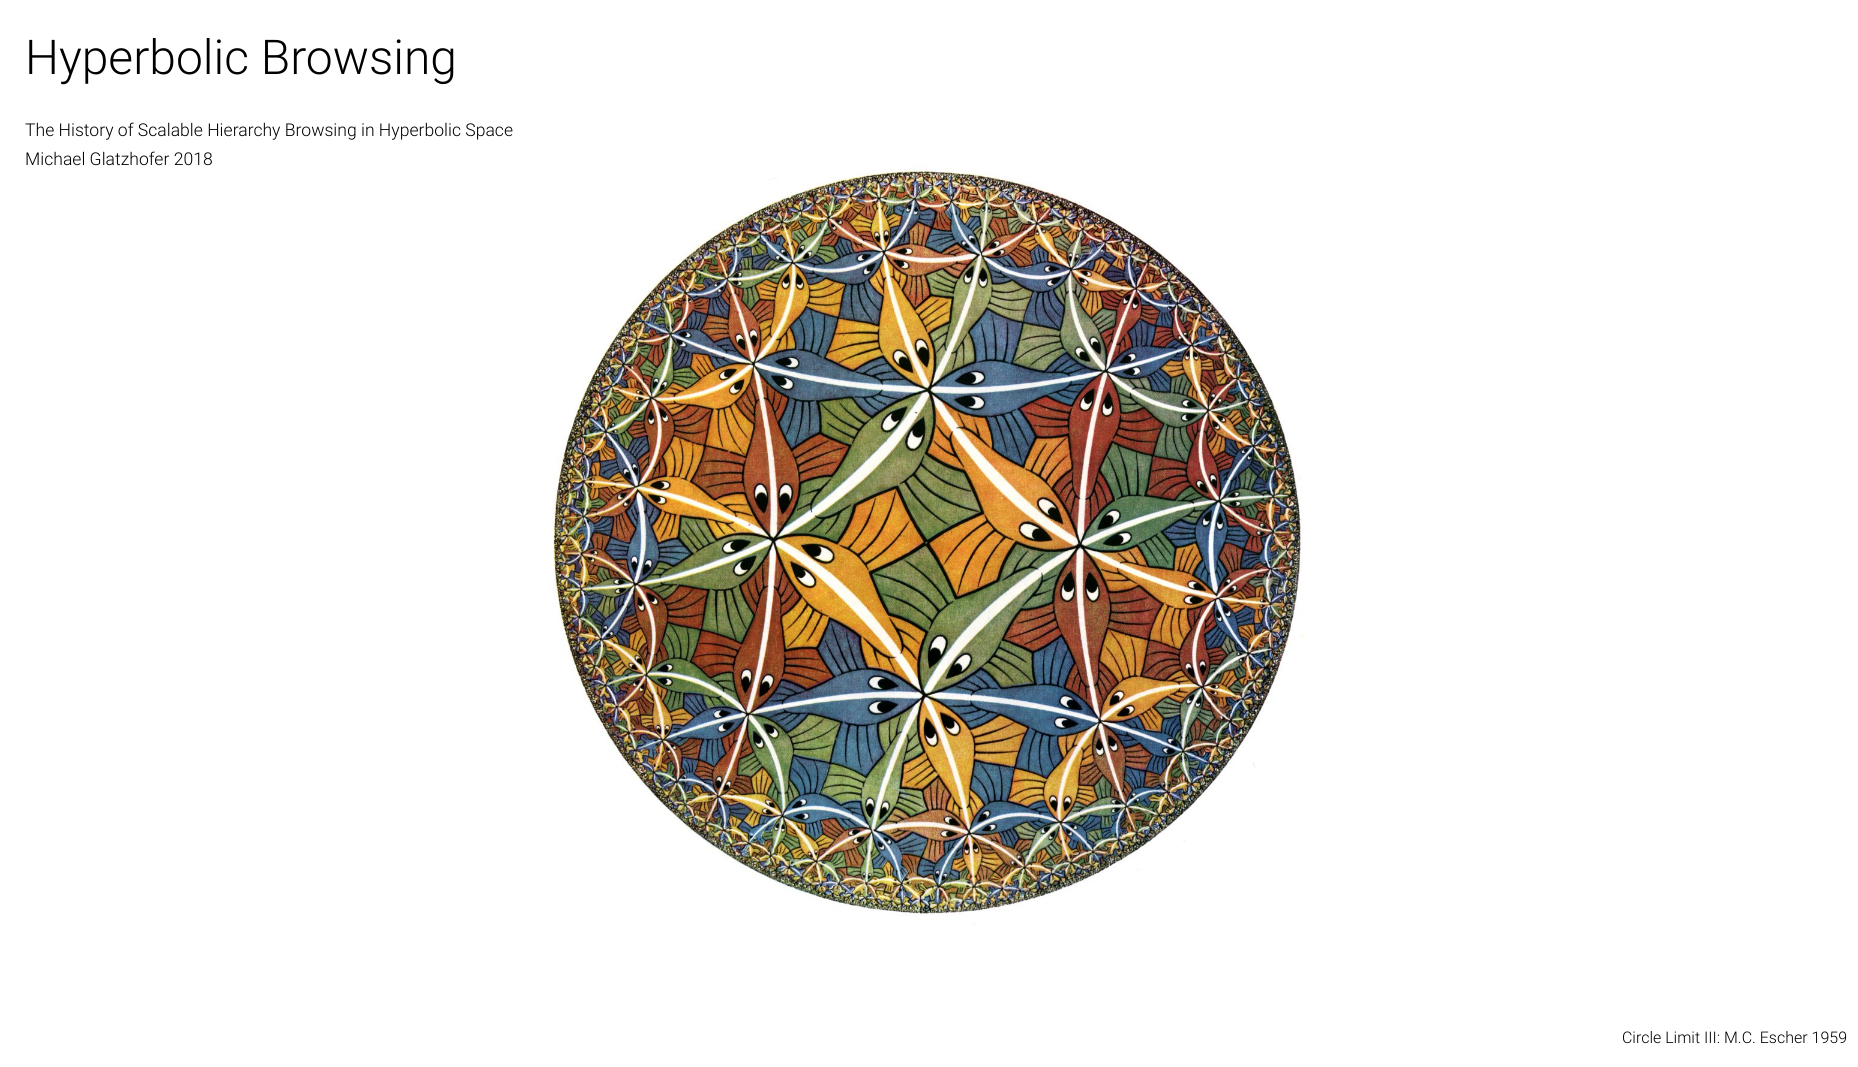
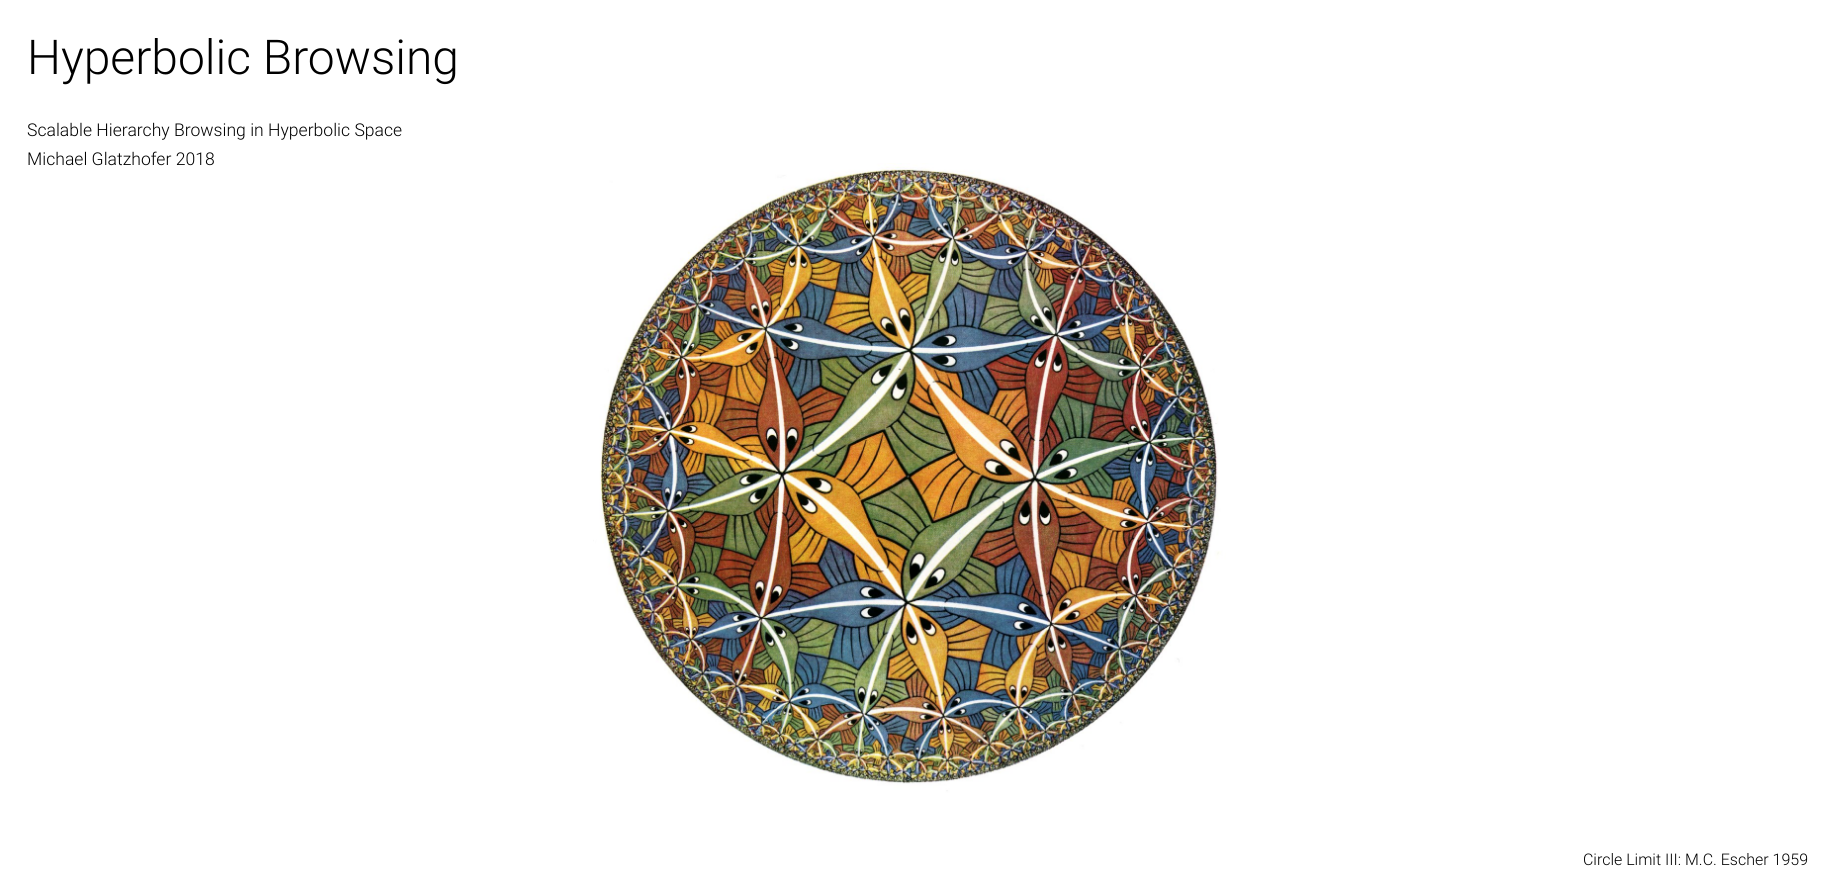
image ratio

Changed region(s): [[0.2768, 0.1517, 0.7073, 0.8798], [0.0, 0.0303, 0.2768, 0.182], [0.8611, 0.9404, 1.0, 1.0]]

diff --git a/hyperbolictree-slides/index.html b/hyperbolictree-slides/index.html
@@ -17,9 +17,11 @@
     <meta name="twitter:card" content="summary_large_image">
     <meta name="twitter:site" content="@GlatzhoferM">
     <meta name="twitter:creator" content="@GlatzhoferM">
-    <meta name="twitter:title" content="Hyperbolic Tree of Life">
-    <!--<meta name="twitter:description" content="">-->
-    <meta name="twitter:image" content="https://glouwa.github.io/d3-hypertree-examples/hyperbolictree-slides/img/preview.png">
+    <meta property="og:url" content="http://bits.blogs.nytimes.com/2011/12/08/a-twitter-for-my-sister/" />
+    <meta property="og:title" content="Hyperbolic Browsing" />
+    <meta property="og:description" content="Scalable Hierarchy Browsing in Hyperbolic Space" />
+    <meta property="og:image" content="https://glouwa.github.io/d3-hypertree-examples/hyperbolictree-slides/img/preview.png" />    
+    
   </head>
   <!--https://glouwa.github.io/d3-hypertree-examples/hyperbolictree-slides/#1-->
 
@@ -88,7 +90,7 @@
 
     <div class="slide"> <!-- style="background-color: #f2f2f2;"-->
       <h1>Hyperbolic Browsing<h1>  
-      <h3>The History of Scalable Hierarchy Browsing in Hyperbolic Space<h3>      
+      <h3>Scalable Hierarchy Browsing in Hyperbolic Space<h3>      
       <h3>Michael Glatzhofer 2018</h3>    
       <img height="75%" src="img/Escher-circle-limits-III.jpg" style="margin:-1em auto;display:block">
       <footer class="reference">Circle Limit III: M.C. Escher 1959</footer>
